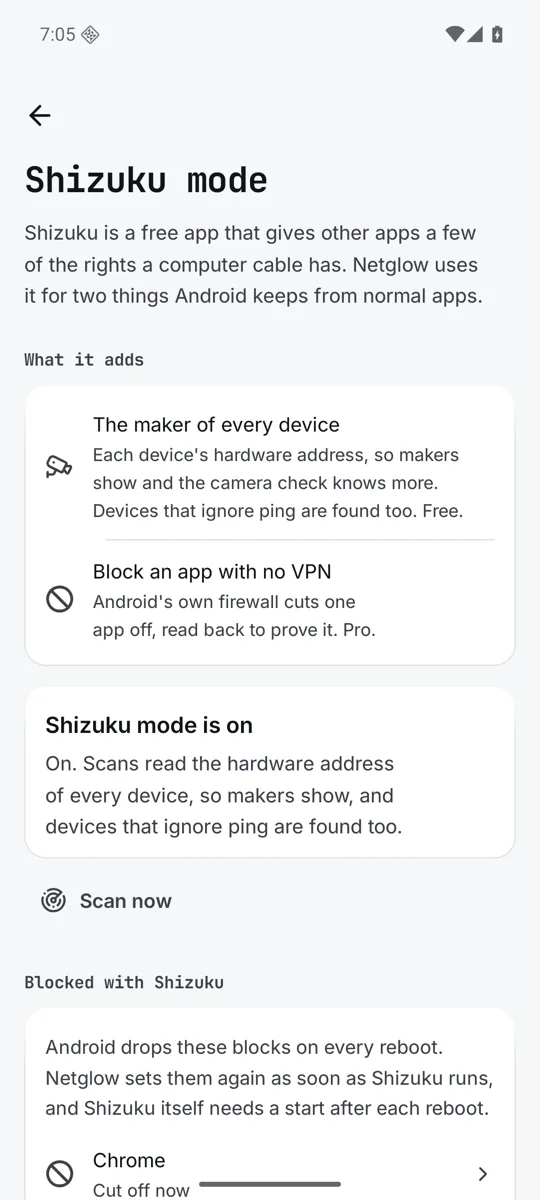
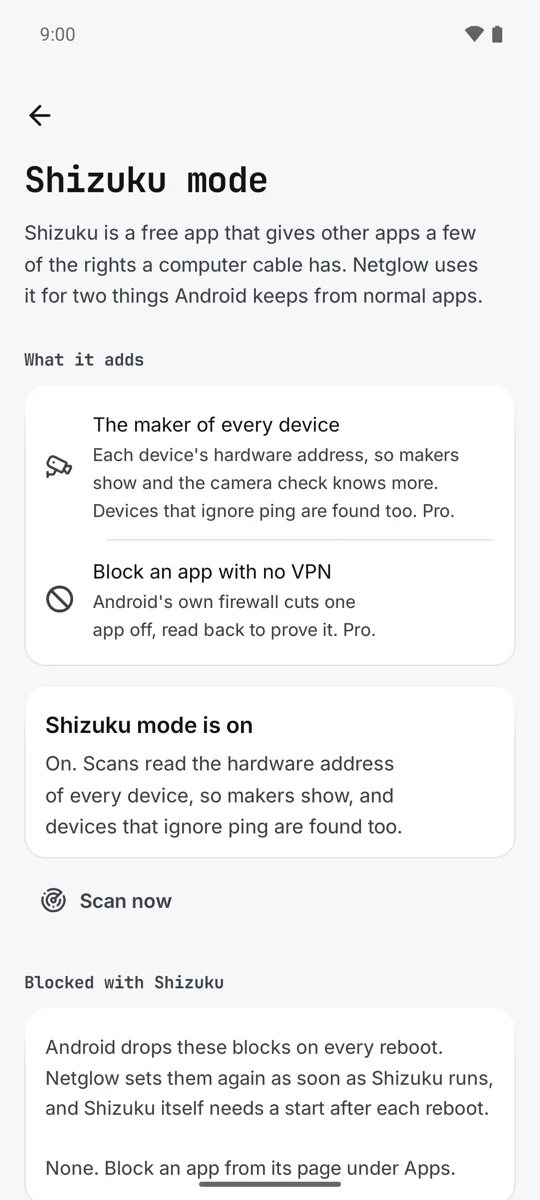
Shizuku mode is all Pro now
The makers through Shizuku joined the app block under Pro: the guide,
FAQ, runbook and Pro list say so, and the Shizuku page picture is new.

diff --git a/docs/faq.html b/docs/faq.html
@@ -26,7 +26,7 @@
 <div class="underline" aria-hidden="true"></div>
 <p class="lede">Quick answers. Something broken? See the <a href="runbook.html">runbook</a>, or <a href="report.html">report it</a>.</p>
 <div class="tiles one"><section class="tile" id="questions" aria-labelledby="questions-h"><div class="title" aria-hidden="true">questions</div><h2 id="questions-h">Questions</h2>
-<details><summary>Is it really free?</summary><div><p>Yes. Scans are free and unlimited, with no account and no ads. The camera check, the names file and every tool are free too. Pro is an optional extra, paid once, and never needed to scan.</p></div></details><details><summary>What does Pro add?</summary><div><p>Background watch, history for good, several networks, a deep port check, blocking an app with Shizuku, export and a widget. It is one payment on Google Play, with no subscription.</p></div></details><details><summary>How does Background watch work?</summary><div><p>It is part of Pro and it is off until you turn it on. Every 15 minutes, or as often as you set, Netglow checks your Wi-Fi and builds a timeline of who joined and who left. When something new joins, you get a note.</p></div></details><details><summary>Does the camera check find every camera?</summary><div><p>No, and no app on a phone can. The camera check lists devices on your Wi-Fi that answer as a camera or have video stream ports open, and camera hotspots nearby. It cannot see cameras that only record to a card, use mobile data, are wired to something else or sit on another network. Use it as one check among others, for example in a holiday rental.</p></div></details><details><summary>Why does it not show every maker or address?</summary><div><p>Since Android 10, apps can no longer read the hardware (MAC) address of other devices. Netglow shows the maker and model when a device tells it, through mDNS, UPnP, NetBIOS or WS-Discovery. Some devices say nothing, and those show as unknown. With the free Shizuku app running, Netglow can read every hardware address again, so makers show for those too.</p></div></details><details><summary>Can it block a device on my Wi-Fi?</summary><div><p>No. Netglow cannot kick a device off your router. You can block an app on this phone with Firewall, our separate free app, or with Shizuku mode on Android 14 and up. Netglow runs no VPN of its own.</p></div></details><details><summary>What is Shizuku mode?</summary><div><p>Shizuku is a free app that lets other apps run a few commands with the rights a computer cable has. When you run it and allow Netglow, scans read every device's hardware address, and Pro can block an app in Android's own firewall. Android drops those blocks on every reboot; Netglow sets them again once Shizuku runs. Everything stays on your phone.</p></div></details><details><summary>What is the devices.json file?</summary><div><p>A plain text file with every device, every name it announced and every rename you made. Netglow saves it after each scan and rename, in a folder you pick once. After a reinstall or on a new phone, load it back and your names return.</p></div></details><details><summary>Why does it ask for location?</summary><div><p>Android requires location access before an app may read the Wi-Fi name and nearby Wi-Fi networks. Netglow uses it for those two things only. Everything else works if you say no.</p></div></details><details><summary>Is it safe to scan?</summary><div><p>Netglow only asks devices to announce themselves. It never tries passwords, never looks for weak spots and never reads other devices' traffic. Use it on networks you own or may test.</p></div></details><details><summary>Where do I report a bug?</summary><div><p>On the <a href="report.html">report page</a>. A free GitHub account is all you need, or write to <a href="mailto:zanoski.marko@gmail.com">zanoski.marko@gmail.com</a>.</p></div></details>
+<details><summary>Is it really free?</summary><div><p>Yes. Scans are free and unlimited, with no account and no ads. The camera check, the names file and every tool are free too. Pro is an optional extra, paid once, and never needed to scan.</p></div></details><details><summary>What does Pro add?</summary><div><p>Background watch, history for good, several networks, Shizuku mode (the maker of every device and blocking an app), a deep port check, export and a widget. It is one payment on Google Play, with no subscription.</p></div></details><details><summary>How does Background watch work?</summary><div><p>It is part of Pro and it is off until you turn it on. Every 15 minutes, or as often as you set, Netglow checks your Wi-Fi and builds a timeline of who joined and who left. When something new joins, you get a note.</p></div></details><details><summary>Does the camera check find every camera?</summary><div><p>No, and no app on a phone can. The camera check lists devices on your Wi-Fi that answer as a camera or have video stream ports open, and camera hotspots nearby. It cannot see cameras that only record to a card, use mobile data, are wired to something else or sit on another network. Use it as one check among others, for example in a holiday rental.</p></div></details><details><summary>Why does it not show every maker or address?</summary><div><p>Since Android 10, apps can no longer read the hardware (MAC) address of other devices. Netglow shows the maker and model when a device tells it, through mDNS, UPnP, NetBIOS or WS-Discovery. Some devices say nothing, and those show as unknown. With the free Shizuku app running, Netglow can read every hardware address again, so makers show for those too.</p></div></details><details><summary>Can it block a device on my Wi-Fi?</summary><div><p>No. Netglow cannot kick a device off your router. You can block an app on this phone with Firewall, our separate free app, or with Shizuku mode on Android 14 and up. Netglow runs no VPN of its own.</p></div></details><details><summary>What is Shizuku mode?</summary><div><p>Shizuku is a free app that lets other apps run a few commands with the rights a computer cable has. Shizuku mode is part of Pro. When you run Shizuku and allow Netglow, scans read every device's hardware address, and you can block an app in Android's own firewall. Android drops those blocks on every reboot; Netglow sets them again once Shizuku runs. Everything stays on your phone.</p></div></details><details><summary>What is the devices.json file?</summary><div><p>A plain text file with every device, every name it announced and every rename you made. Netglow saves it after each scan and rename, in a folder you pick once. After a reinstall or on a new phone, load it back and your names return.</p></div></details><details><summary>Why does it ask for location?</summary><div><p>Android requires location access before an app may read the Wi-Fi name and nearby Wi-Fi networks. Netglow uses it for those two things only. Everything else works if you say no.</p></div></details><details><summary>Is it safe to scan?</summary><div><p>Netglow only asks devices to announce themselves. It never tries passwords, never looks for weak spots and never reads other devices' traffic. Use it on networks you own or may test.</p></div></details><details><summary>Where do I report a bug?</summary><div><p>On the <a href="report.html">report page</a>. A free GitHub account is all you need, or write to <a href="mailto:zanoski.marko@gmail.com">zanoski.marko@gmail.com</a>.</p></div></details>
 </section>
 </div>
 </main>

diff --git a/docs/guide.html b/docs/guide.html
@@ -53,7 +53,7 @@
 <dt>Rename</dt><dd>Give it your own name. Leave it empty to give back its own name.</dd>
 <dt>Open web page</dt><dd>Shown when the device has a web page port open.</dd>
 <dt>Ping, Ports</dt><dd>Start the Ping or Port check tool on this device.</dd>
-<dt>What it says about itself</dt><dd>Address, name on the network, maker and model, found by, hardware address and first seen. Since Android 10 apps cannot read the hardware address of other devices. Shizuku mode shows it. A private address is one the device made up for this network.</dd>
+<dt>What it says about itself</dt><dd>Address, name on the network, maker and model, found by, hardware address and first seen. Since Android 10 apps cannot read the hardware address of other devices. Shizuku mode (Pro) shows it. A private address is one the device made up for this network.</dd>
 <dt>Open ports</dt><dd>The ports that answered, with a plain note on what each is used for.</dd>
 <dt>Online, last 14 days</dt><dd>On which days it was seen.</dd>
 <dt>Names</dt><dd>Every rename you made, with the time. All of it is saved in devices.json.</dd>
@@ -143,14 +143,14 @@
 </section>
 <section class="tile" id="shizuku" aria-labelledby="shizuku-h"><div class="title" aria-hidden="true">09</div><h2 id="shizuku-h">Shizuku mode</h2>
 
-<p>Shizuku is a free app that gives other apps a few of the rights a computer cable has. Netglow uses it for two things Android keeps from normal apps. Open it from the <code>Shizuku mode</code> tile, or <code>Settings</code>, <code>Shizuku mode</code>.</p>
-<div class="pair"><figure><div class="phone"><img src="img/shizuku.webp" width="540" height="1200" loading="lazy" alt="The Shizuku mode page: what it adds (the maker of every device, free, and block an app with no VPN, Pro), a card saying Shizuku mode is on, a Scan now button and the list Blocked with Shizuku."></div><figcaption>The Shizuku mode page.</figcaption></figure></div>
+<p>Shizuku is a free app that gives other apps a few of the rights a computer cable has. Netglow uses it for two things Android keeps from normal apps, both part of Pro. Open it from the <code>Shizuku mode</code> tile, or <code>Settings</code>, <code>Shizuku mode</code>.</p>
+<div class="pair"><figure><div class="phone"><img src="img/shizuku.webp" width="540" height="1200" loading="lazy" alt="The Shizuku mode page: what it adds (the maker of every device and block an app with no VPN, both Pro), a card saying Shizuku mode is on, a Scan now button and the list Blocked with Shizuku."></div><figcaption>The Shizuku mode page.</figcaption></figure></div>
 <dl class="keys">
-<dt>The maker of every device</dt><dd>Free. Netglow reads each device's hardware address, so makers show, the camera check knows more, and devices that ignore ping are found too.</dd>
+<dt>The maker of every device</dt><dd>Pro. Netglow reads each device's hardware address, so makers show, the camera check knows more, and devices that ignore ping are found too.</dd>
 <dt>Block an app with no VPN</dt><dd>Pro, Android 14 and up. Android's own firewall cuts one app off, on Wi-Fi and mobile data, and Netglow reads it back to prove it.</dd>
 </dl>
 <h3>Turn it on</h3>
-<ol class="steps"><li>Tap <code>Get Shizuku</code> and install it.</li><li>Tap <code>Open Shizuku</code> and start it. Shizuku starts with wireless debugging, no computer needed.</li><li>Come back and tap <code>Allow Netglow</code>. The page says <code>Shizuku mode is on</code>. Tap <code>Scan now</code> to see makers.</li></ol>
+<ol class="steps"><li>Shizuku mode needs Pro. Without it the keys on the page open the Pro sheet first.</li><li>Tap <code>Get Shizuku</code> and install it.</li><li>Tap <code>Open Shizuku</code> and start it. Shizuku starts with wireless debugging, no computer needed.</li><li>Come back and tap <code>Allow Netglow</code>. The page says <code>Shizuku mode is on</code>. Tap <code>Scan now</code> to see makers.</li></ol>
 <p>Android stops Shizuku on every reboot, and drops the blocks too. Start Shizuku again after a reboot and Netglow sets the blocks again. The list <code>Blocked with Shizuku</code> shows each app as <code>Cut off now</code>, <code>Not held now, open Shizuku</code> or <code>Waits for Shizuku</code>. Everything stays on your phone.</p>
 
 </section>
@@ -176,6 +176,7 @@
 <li><b>History for good</b>: every scan and every day a device was online, not just 30 days.</li>
 <li><b>Several networks</b>: home, office and family, each with its own devices, to browse while you are away.</li>
 <li><b>Deep port check</b>: up to 1000 ports, or a range you type.</li>
+<li><b>Shizuku makers</b>: the maker of every device from its hardware address, and devices that ignore ping.</li>
 <li><b>Block with Shizuku</b>: cut one app off with no VPN, on Android 14 and up.</li>
 <li><b>Export</b>: your devices as CSV or JSON.</li>
 <li><b>Widget</b>: devices online and new ones on your home screen, with a Scan key.</li>

diff --git a/docs/index.html b/docs/index.html
@@ -45,12 +45,12 @@
 <div class="shots-wrap"><ul class="shots">
 <li><figure><div class="phone"><img src="img/device.webp" width="540" height="1200" loading="lazy" alt="A device page named Router: buttons Rename, Open web page, Ping and Ports, then what it says about itself: address, found by, hardware address and first seen, and a list of open ports."></div><figcaption>A device page: rename it, ping it, check its ports.</figcaption></figure></li>
 <li><figure><div class="phone"><img src="img/timeline.webp" width="540" height="1200" loading="lazy" alt="The Timeline page: a Watch in the background button, then Today, hour by hour, with a row of lit squares for the Router and three unknown devices, and a note that no one joined or left yet."></div><figcaption>The timeline of who joined and who left.</figcaption></figure></li>
-<li><figure><div class="phone"><img src="img/shizuku.webp" width="540" height="1200" loading="lazy" alt="The Shizuku mode page: what it adds (the maker of every device, free, and block an app with no VPN, Pro), a card saying Shizuku mode is on, a Scan now button and the list Blocked with Shizuku."></div><figcaption>Shizuku mode: makers for every device.</figcaption></figure></li>
+<li><figure><div class="phone"><img src="img/shizuku.webp" width="540" height="1200" loading="lazy" alt="The Shizuku mode page: what it adds (the maker of every device and block an app with no VPN, both Pro), a card saying Shizuku mode is on, a Scan now button and the list Blocked with Shizuku."></div><figcaption>Shizuku mode: makers for every device.</figcaption></figure></li>
 </ul></div>
 </section>
 <section class="tile" id="pro" aria-labelledby="pro-h"><div class="title" aria-hidden="true">pro</div><h2 id="pro-h">Pro, paid once</h2>
 <p>Scans, names, the camera check and every tool are free. Pro is an optional extra, a one time payment on Google Play, with no subscription.</p>
-<dl class="keys"><dt>Background watch</dt><dd>A timeline of who joined your Wi-Fi and who left, hour by hour, and a note when something new joins. Checked every 15 minutes, or as often as you set.</dd><dt>History for good</dt><dd>Every scan and every day a device was online, kept for good, not just 30 days.</dd><dt>Several networks</dt><dd>Home, office and family, each with its own devices, to browse while you are away.</dd><dt>Deep port check</dt><dd>Up to 1000 ports, or a range you type, on any device.</dd><dt>Block with Shizuku</dt><dd>Cut one app off the network in Android's own firewall, with no VPN, on Android 14 and up with the free Shizuku app.</dd><dt>Export</dt><dd>Your devices as a CSV or JSON file, for a sheet or a backup.</dd><dt>Widget</dt><dd>Devices online and new ones, on your home screen, with a Scan key.</dd></dl>
+<dl class="keys"><dt>Background watch</dt><dd>A timeline of who joined your Wi-Fi and who left, hour by hour, and a note when something new joins. Checked every 15 minutes, or as often as you set.</dd><dt>History for good</dt><dd>Every scan and every day a device was online, kept for good, not just 30 days.</dd><dt>Several networks</dt><dd>Home, office and family, each with its own devices, to browse while you are away.</dd><dt>Deep port check</dt><dd>Up to 1000 ports, or a range you type, on any device.</dd><dt>Shizuku makers</dt><dd>The maker of every device from its hardware address, and devices that ignore ping, with the free Shizuku app.</dd><dt>Block with Shizuku</dt><dd>Cut one app off the network in Android's own firewall, with no VPN, on Android 14 and up with the free Shizuku app.</dd><dt>Export</dt><dd>Your devices as a CSV or JSON file, for a sheet or a backup.</dd><dt>Widget</dt><dd>Devices online and new ones, on your home screen, with a Scan key.</dd></dl>
 </section>
 <section class="tile quiet" id="private" aria-labelledby="private-h"><div class="title" aria-hidden="true">private</div><h2 id="private-h">Private by design</h2>
 <ul class="dots"><li>No account and no sign in.</li><li>No ads and no advertising identifiers.</li><li>No analytics or tracking libraries.</li><li>Nothing you scan or name is sent to us. There is no server of ours.</li><li>No selling or sharing of data, because we do not collect any.</li></ul>

diff --git a/docs/runbook.html b/docs/runbook.html
@@ -32,7 +32,7 @@
 <p><b>Why:</b> The device says nothing about itself, and Android no longer lets apps read its hardware address.</p><p><b>Fix:</b></p><ol class="steps"><li>Tap the device, then <code>Rename</code> and give it a name. The name stays.</li><li>To get makers, turn on <code>Shizuku mode</code> in <code>Settings</code>.</li></ol>
 </section>
 <section class="tile" id="makers" aria-labelledby="makers-h"><div class="title" aria-hidden="true">symptom</div><h2 id="makers-h">Makers are missing</h2>
-<p><b>Why:</b> Since Android 10 apps cannot read the hardware address that tells the maker.</p><p><b>Fix:</b></p><ol class="steps"><li>Open <code>Settings</code>, then <code>Shizuku mode</code>.</li><li>Tap <code>Get Shizuku</code>, then <code>Open Shizuku</code> to start it, then <code>Allow Netglow</code>.</li><li>Tap <code>Scan now</code>.</li></ol>
+<p><b>Why:</b> Since Android 10 apps cannot read the hardware address that tells the maker.</p><p><b>Fix:</b></p><ol class="steps"><li>Makers through Shizuku come with Pro.</li><li>Open <code>Settings</code>, then <code>Shizuku mode</code>.</li><li>Tap <code>Get Shizuku</code>, then <code>Open Shizuku</code> to start it, then <code>Allow Netglow</code>.</li><li>Tap <code>Scan now</code>.</li></ol>
 </section>
 <section class="tile" id="missing" aria-labelledby="missing-h"><div class="title" aria-hidden="true">symptom</div><h2 id="missing-h">A device I know is not in the scan</h2>
 <p><b>Why:</b> It may be asleep, on a guest network, or behind a mesh or extender.</p><p><b>Fix:</b></p><ol class="steps"><li>Wake the device and tap <code>Scan</code> again.</li><li>Try <code>Settings</code>, <code>Scanning</code>, <code>How hard to scan</code>, <code>Thorough</code>.</li><li>Tap <code>See all</code>. Netglow keeps every device it ever saw, under <code>Away</code>.</li></ol>
